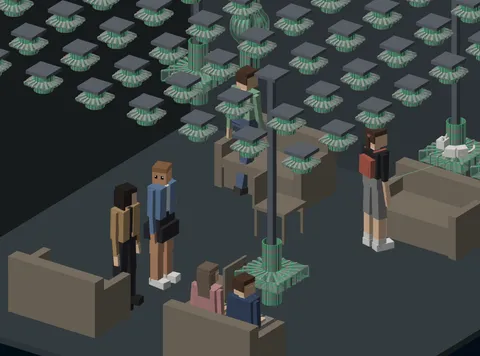
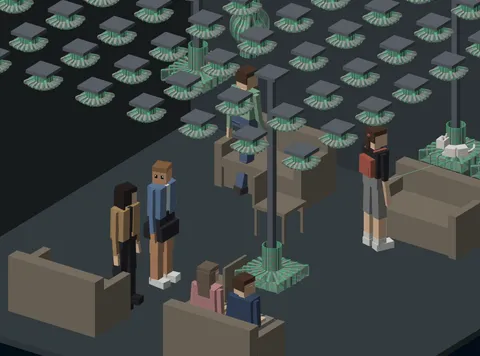
Lab 2-15 方台：结构贴底、带缩到 169 节，台面下那截布筒去掉
作者看单元成形后的样子：每次成形后台底下还支出一段贴着芯的圆柱形布，要尽量小。

- skin-square 加结构贴底的排法 squareWrapLow：键谱一颗不改，配平垫从结构上下各一半挪到结构上方，
  结构底下只接一段短尾（角档 5 节，面 / 边档按自由段差额多给一点，三档台面在收缩终点一样高）。
  原七段谱与 Lab 2-7 等全部现行调用逐位不变（buildSquareUnits 第三个参数省略 = 原样）。
- Lab 2-15 的 UNIT_TIERS 换用它，带子 202 → 169 节（最上面那段贴合只留到下限）。实测成形形状与
  锁定逐点相同；台底到钉住端 82 → 29 px（房间尺度 0.33 → 0.12 m），成形后整台短约三成。
  代价：只在收缩终点对齐，收缩途中三档台面差到十几 px，全部扣上后 ≤ 7 px。
- 三档结构中心序号不同了，带间的膜改按结构中心对位（membraneIndex），否则面档的台尖会接到角档台面下的布上。
- 茶几 0.49 m 当初是带子能落到的最低，现在不是了：注释与 /lab、案例页文案去掉这句，数值不动，待作者定。
- 案例页两组 2-15 分镜（room-cycle、two-uses）按新几何重截。

Claude-Session: https://claude.ai/code/session_01RPazAeFLw4UBaBZrTgFsBT

diff --git a/src/lib/space/cohabit-solid.ts b/src/lib/space/cohabit-solid.ts
@@ -45,7 +45,7 @@
  * 第二阶段「成什么」仍只有一种形（方形环平档那只方箱），待作者定词汇表后再分。
  */
 import type { RingUnitDef } from './skin-ring';
-import { SQUARE, buildSquareOrder, buildSquareUnits, squareHalfSide, SQUARE_REACH } from './skin-square';
+import { SQUARE, buildSquareOrder, buildSquareUnits, squareHalfSide, squareStructureAt, SQUARE_REACH } from './skin-square';
 import { SKIN, createSkinUnit, renderSmooth } from './skin-unit';
 import { SOLID, boxVerts, buildSolidTopology, fillSolidVerts, membranePanel, rotateVertsY, type SolidTopology } from './skin-solid';
 import { bakeIndexed } from '../linkage/gl3d';
@@ -96,11 +96,17 @@ export interface BandTrajectory {
   retractActive: number;
   /** 正向里形状还在变的最后一帧（成形在协议约六成处就到位，后面几十帧逐位相同；取帧只映射到会动的那段，免得先猛动再干等） */
   formActive: number;
+  /**
+   * 结构段（带键的那段）中心的节点序号与半长（节）。带间的膜按它对位（`membraneVerts`）：结构贴底的排法
+   * （2026-10-30）里三档的结构中心序号不同，按同一序号配对会把面档的台尖接到角档台面以下的布上。
+   */
+  mid: number;
+  midHalf: number;
 }
 
 /**
  * 轨迹烘焙：分片跑（`work` 按时间预算推进），好让台架在挂载后的头几帧里把它算完而不卡住主线程。
- * 一条 202 节的带全程 3000 步在桌面上约 1.5 s。
+ * 一条 202 节的带全程 3000 步在桌面上约 1.5 s（方台现用 169 节）。
  */
 export class TrajectoryBaker {
   readonly n: number;
@@ -116,9 +122,15 @@ export class TrajectoryBaker {
   private phase: 'form' | 'retract' | 'done' = 'form';
   private result: BandTrajectory | null = null;
 
+  private readonly mid: number;
+  private readonly midHalf: number;
+
   constructor(def: RingUnitDef, frames: FrameCounts = FRAMES) {
     this.unit = createSkinUnit(def.spec, def.opts);
     this.n = this.unit.n;
+    const st = squareStructureAt(def.spec);
+    this.mid = st ? st.start + (st.fs - 1) / 2 : (this.n - 1) / 2;
+    this.midHalf = st ? (st.fs - 1) / 2 : (this.n - 1) / 2;
     [this.smoothW, this.smoothP] = def.smooth;
     const spread = (k: number, total: number): number[] => Array.from({ length: k }, (_, i) => Math.round((i / (k - 1)) * total));
     this.formAt = spread(frames.form, SKIN.STEPS);
@@ -181,7 +193,7 @@ export class TrajectoryBaker {
     const n = this.n;
     const f0 = this.frames[0];
     // frames[1] = 收起态（初始摆位压向顶端）：烘完之前满场都是收着的单元，台架拿它烘整环
-    return { n, frames: [f0, hoistProfile(f0, n, HOIST.stowed)], footY: -f0[2 * n - 1] * SOLID.SCALE, platformTopY: -f0[2 * n - 1] * SOLID.SCALE, reach: SQUARE.RADIUS, retractActive: 0, formActive: 0 };
+    return { n, frames: [f0, hoistProfile(f0, n, HOIST.stowed)], footY: -f0[2 * n - 1] * SOLID.SCALE, platformTopY: -f0[2 * n - 1] * SOLID.SCALE, reach: SQUARE.RADIUS, retractActive: 0, formActive: 0, mid: this.mid, midHalf: this.midHalf };
   }
 
   /** 一口气烘完（守门与线稿用） */
@@ -241,17 +253,27 @@ export class TrajectoryBaker {
       reach: SQUARE.RADIUS + reach * SOLID.SCALE,
       retractActive: active,
       formActive,
+      mid: this.mid,
+      midHalf: this.midHalf,
     };
   }
 }
 
 /**
- * 方形单元那条带的节数：Lab 2-7 方形环立项时的 202 节（lead 22），与原来圆台的带一样长。方形环现行的 305 节是
- * 2026-09-02 为捏分编制加长的，多出来的全在上半截贴芯的素管里（形状逐点相同），立在方台上方会是一根一米来高的布筒。
+ * 方形单元那条带的节数。2026-10-25 起用 Lab 2-7 方形环立项时的 202 节（lead 22）：方形环现行的 305 节是 2026-09-02
+ * 为捏分编制加长的，多出来的全在上半截贴芯的素管里（形状逐点相同），立在方台上方会是一根一米来高的布筒。
+ * 2026-10-30 结构改贴底（见 UNIT_TIERS）后再缩到 169 节：最上面那段贴合只留到下限（面档 lead = SQUARE.LEAD_MIN = 8，
+ * 边 10、角 31），三档的垫与结构一节没动，成形的形状与锁定逐点相同（实测偏差 0）。成形后台面以上的带 97 → 83 px、
+ * 台面以下 118 → 65 px（台面到钉住端），整台短了约三成。
  */
-export const UNIT_BAND = 202;
-/** 方形单元的三档引擎定义（面 / 边 / 角，Lab 2-7 方形环平档的键谱）与二十条带的档位编制（下标 = 带序 j） */
-export const UNIT_TIERS: readonly RingUnitDef[] = buildSquareUnits(undefined, UNIT_BAND);
+export const UNIT_BAND = 169;
+/**
+ * 方形单元的三档引擎定义（面 / 边 / 角，Lab 2-7 方形环平档的键谱）与二十条带的档位编制（下标 = 带序 j）。
+ * 2026-10-30 改为结构贴底的排法（skin-square `squareWrapLow`，作者「每一次机构成型之后它的底面下面直接接这个单元的
+ * 最底端，而不是还要再支出来一段圆柱形的东西」）：键谱一颗没改，配平垫从结构上下各一半挪到结构上方，结构底下只接一段
+ * 短尾。成形的形状与锁定逐点相同；台底到钉住端 0.33 → 0.12 m（房间尺度）。
+ */
+export const UNIT_TIERS: readonly RingUnitDef[] = buildSquareUnits(undefined, UNIT_BAND, 'bottom');
 export const UNIT_ORDER: readonly number[] = buildSquareOrder();
 
 /** 已经烘好的三档轨迹（同一页面里换路由、重挂台架时直接拿，不重烘） */
@@ -259,7 +281,7 @@ const BAKED = new Map<string, BandTrajectory[]>();
 
 /**
  * 三档轨迹一起烘：三条引擎依次推进（分片，`work` 按时间预算），全部烘完才算完。三档的节点数相同（同一条
- * 202 节的带），钉住端高度相同（注册在底端）、平台面高度相同（方形环的对位构造），台架拿第 0 档定摆放。
+ * 169 节的带），钉住端高度相同（注册在底端）、平台面高度相同（方形环的对位构造），台架拿第 0 档定摆放。
  */
 export class UnitBaker {
   readonly n: number;
@@ -532,7 +554,8 @@ export interface Rig {
  * - stand 1.05：站着用——站姿肘高附近（BIFMA G1 站立桌可调到 1.18；吧台桌通行 1.0–1.1）。不当桌子的单元都落到这里；
  * - chair 0.74：配餐椅（座面 0.45）——桌面比座面高 0.27–0.30 是通行的桌椅高差；台面 0.15 厚、台底 0.59，腿进不去，
  *   所以餐椅那台的台边按 COHABIT.TABLE 落在膝盖前面；
- * - sofaFront 0.49：沙发正前方当茶几——资料要与座面齐或略低（0.40–0.45），但台面到吊带最下端有 0.48 m，再低吊带就戳到地上，0.49 是下限。
+ * - sofaFront 0.49：沙发正前方当茶几——资料要与座面齐或略低（0.40–0.45）。定这个数时台面到吊带最下端有 0.48 m、0.49 是下限；
+ *   2026-10-30 结构改贴底（UNIT_TIERS）后只剩约 0.27 m，已能落进资料范围，改不改待作者定。
  * 哪一台当谁的桌子、什么时候落由平面模型定（COHABIT.TABLE、CohabitSim.tableBy），这里只管高度。
  * 原来铺满时钉在 1.43 m（场地布局那个高度，接近站姿肩高），哪种桌子都不是。
  */
@@ -642,22 +665,48 @@ export function decimateTrajectory(traj: BandTrajectory, stride: number): BandTr
     });
     return out;
   });
-  return { ...traj, n: m, frames };
+  return { ...traj, n: m, frames, mid: traj.mid / stride, midHalf: traj.midHalf / stride };
 }
 
 /** 收起态整台网格的抽稀步长 */
 export const STOWED_STRIDE = 8;
 
 /**
+ * 膜的 B 边在 A 边第 i 个节点对面取哪个（小数）序号：两档结构中心对齐，中心两侧各 w 节（两档结构半长取小）
+ * 逐节对位（与七段谱时代按同一序号配对的读法相同：台面对台面），其余分段线性摊到带顶 / 带底。中心相同时恒等。
+ */
+export function membraneIndex(i: number, n: number, ma: number, mb: number, w: number): number {
+  if (ma === mb) return i;
+  const lo = ma - w;
+  const hi = ma + w;
+  if (i <= lo) return lo <= 0 ? mb - w : (i / lo) * (mb - w);
+  if (i >= hi) return hi >= n - 1 ? mb + w : mb + w + ((i - hi) / (n - 1 - hi)) * (n - 1 - mb - w);
+  return i - ma + mb;
+}
+
+/**
  * 带与带之间的膜（2026-10-25 随方形单元补上：没有它，方台俯视是一把放射状的窄带，读不出是一张方的台面；
  * 作者 10-23 讲收起态时也说的是「蒙皮、可折叠的布」）。几何 = Lab 2-5 / 2-7 那块织物膜（skin-solid `membranePanel`）：
  * A 边取带 j 的后剖口（它那一档、它那一帧），B 边取带 j+1 的前剖口；烘在方位角 0，摆放时转到 bandAngle(j)。
+ * 两档结构中心序号不同时（结构贴底的排法），B 边按 `membraneIndex` 在节点之间插值取点。
  * 半透明，台架在实体之后画（gl3d 半透明的三条硬约束）。
  */
 export function membraneVerts(a: BandTrajectory, fa: number, b: BandTrajectory, fb: number, count: number = SQUARE.COUNT): { verts: Float32Array; idx: Uint16Array } {
   const n = a.n;
   const A = a.frames[fa];
-  const B = b.frames[fb];
+  let B = b.frames[fb];
+  if (a.mid !== b.mid) {
+    const w = Math.min(a.midHalf, b.midHalf);
+    const R = new Float64Array(2 * n);
+    for (let i = 0; i < n; i++) {
+      const t = Math.max(0, Math.min(n - 1, membraneIndex(i, n, a.mid, b.mid, w)));
+      const k = Math.min(n - 2, Math.floor(t));
+      const u = t - k;
+      R[i] = B[k] + (B[k + 1] - B[k]) * u;
+      R[n + i] = B[n + k] + (B[n + k + 1] - B[n + k]) * u;
+    }
+    B = R;
+  }
   return membranePanel(
     { px: A.subarray(0, n), py: A.subarray(n, 2 * n), offY: 0 },
     { px: B.subarray(0, n), py: B.subarray(n, 2 * n), offY: 0 },

diff --git a/app/(site)/lab/page.tsx b/app/(site)/lab/page.tsx
@@ -417,7 +417,7 @@ export default function LabPage() {
           specs={[
             ['Room', 'Lab 2-8 room · walk / stand / sit rule: the same room as Lab 2-15, 8×8 square units filling the room at 0.83 m pitch (square platform 0.69 m) · trace rule: 4×4 real round units, 6×6 / 8×8 scaled · the case study buttons keep the round units at 0.60 m pitch in the middle of the room that the case study chart was run with'],
             ['Seats', 'Furniture is its own layer: standard layout four two-seat sofas along the top and bottom walls and two dining chairs in the middle, 10 seats, sizes as in Lab 2-15; add, remove and drag pieces · units still hang over the furniture, only those over a seated head stay up · the unit a cat is led to is 1.0–1.5 m from the seat; in the standard layout it is never the one that comes down as the table'],
-            ['Tables', 'When someone sits down, one unit in front of the seat comes down as their table; it goes back up when the last person on that piece of furniture stands. Which unit is set by geometry: in front of the seat and covering its centre line, over no seated head, clear of the furniture. Sofa: near edge 0.30–0.46 m from the sofa front (the usual coffee-table gap), one unit shared by both seats, top at 0.49 m (the lowest it can go, since the band hangs 0.48 m below the top). Dining chair: the top is 0.15 m thick and its underside only 0.14 m above the seat, so legs cannot go under; the edge sits just past the knees and within reach of the arm (0.615–0.712 m from the backrest), top at 0.74 m. It moves at the moment of sitting down or standing up, not later (Lee et al. 2019: an automatic desk that moved during the change of task disturbed people least), at 80 mm/s like a fast electric desk. Units nobody sits at stay at 1.05 m, near standing elbow height'],
+            ['Tables', 'When someone sits down, one unit in front of the seat comes down as their table; it goes back up when the last person on that piece of furniture stands. Which unit is set by geometry: in front of the seat and covering its centre line, over no seated head, clear of the furniture. Sofa: near edge 0.30–0.46 m from the sofa front (the usual coffee-table gap), one unit shared by both seats, top at 0.49 m. Dining chair: the top is 0.15 m thick and its underside only 0.14 m above the seat, so legs cannot go under; the edge sits just past the knees and within reach of the arm (0.615–0.712 m from the backrest), top at 0.74 m. It moves at the moment of sitting down or standing up, not later (Lee et al. 2019: an automatic desk that moved during the change of task disturbed people least), at 80 mm/s like a fast electric desk. Units nobody sits at stay at 1.05 m, near standing elbow height'],
             ['Postures', 'Walk: no trigger, no trace · stand 3 s watching a cat (≤ 3 m, ±25°): one step for that cat, once per stop · sit: a route from the nearest free cat to the unit in front of the seat, one step formed at a time · the cat takes an offered step half the time'],
             ['Visitors', 'Walk / stand / sit rule: bodies 0.44 m wide, one person per aisle crossing; in an aisle one waits and, after 1.5 s, goes another way; with the units filling the room, a crossing whose four neighbouring units are all stowed is open floor, so a walker passes someone standing there instead of waiting (never stopping on them, and the two step aside on screen) · about 70% come in parties, mostly pairs (Moussaïd et al. 2010), standing within 0.92 m of whoever leads and sitting together · spots and seats chosen at least 1.35 m from strangers if possible, otherwise at least 1 m, and kept once chosen · up to 12 people'],
             ['Pace', 'Visitors stand still 3–12 s, go to sit at about one stop in three and sit 60–180 s; watching a cat still takes 10–30 s. Demonstration values: no study gives how often café visitors move or how long they sit. The case study comparison and the case buttons keep 8–45 s, one stop in two and 90–240 s'],
@@ -442,12 +442,12 @@ export default function LabPage() {
           lede="The Lab 2-14 simulation drawn in the Lab 2-8 room: sixty-four square units, filling the whole room, are stowed under the ceiling, six visitors walk, stand and sit, two cats live on the platforms. A unit the rules call for first comes down to working height and then forms, bands in a person's way retract on their own, and the four encounter events are counted at the bottom right. Each unit is the Lab 2-7 square ring at its flat setting, scaled to the 8×8 pitch; the platforms double as tables. The round rings stay in the earlier labs, where they show how the form is made."
           specs={[
             ['Room', 'Lab 2-8 room (6.64 m square, 3.74 m high) · 8×8 units filling the room at 0.83 m pitch · square platform 0.69 m · stowed under the ceiling plate until triggered'],
-            ['Tables', 'When someone sits down, one unit in front of the seat comes down as their table; it goes back up when the last person on that piece of furniture stands. Which unit is set by geometry: in front of the seat and covering its centre line, over no seated head, clear of the furniture. Sofa: near edge 0.30–0.46 m from the sofa front (the usual coffee-table gap), one unit shared by both seats, top at 0.49 m (the lowest it can go, since the band hangs 0.48 m below the top). Dining chair: the top is 0.15 m thick and its underside only 0.14 m above the seat, so legs cannot go under; the edge sits just past the knees and within reach of the arm (0.615–0.712 m from the backrest), top at 0.74 m. It moves at the moment of sitting down or standing up, not later (Lee et al. 2019: an automatic desk that moved during the change of task disturbed people least), at 80 mm/s like a fast electric desk. Units nobody sits at stay at 1.05 m, near standing elbow height'],
+            ['Tables', 'When someone sits down, one unit in front of the seat comes down as their table; it goes back up when the last person on that piece of furniture stands. Which unit is set by geometry: in front of the seat and covering its centre line, over no seated head, clear of the furniture. Sofa: near edge 0.30–0.46 m from the sofa front (the usual coffee-table gap), one unit shared by both seats, top at 0.49 m. Dining chair: the top is 0.15 m thick and its underside only 0.14 m above the seat, so legs cannot go under; the edge sits just past the knees and within reach of the arm (0.615–0.712 m from the backrest), top at 0.74 m. It moves at the moment of sitting down or standing up, not later (Lee et al. 2019: an automatic desk that moved during the change of task disturbed people least), at 80 mm/s like a fast electric desk. Units nobody sits at stay at 1.05 m, near standing elbow height'],
             ['Furniture', 'Sizes from ergonomic references: two-seat sofa 1.40 × 0.80 m, seat 0.43 m high and 0.60 m deep, arms 0.12 m wide and 0.62 m high, back 0.80 m; dining chair 0.50 × 0.52 m, seat 0.45 m high and 0.42 m deep, back 0.85 m; the two dining chairs sit sideways in the middle of the room, each facing a unit square on'],
             ['Pace', 'Visitors stand still 3–12 s, go to sit at about one stop in three and sit 60–180 s; watching a cat still takes 10–30 s. Demonstration values: no study gives how often café visitors move or how long they sit. The case study comparison and the case buttons keep 8–45 s, one stop in two and 90–240 s'],
             ['Time', '×1 / ×8 / ×10 / ×20 playback; the simulation is stepped in 0.05 s pieces, so faster playback runs the same rules'],
             ['Driver', 'CohabitSim with the case study configuration and square units (the case study chart was run with round units): walk / stand / sit rule · only the bands in the way retract · visitors with bodies and parties · cats can use the floor · cat costs calibrated to Mertens & Turner 1988 · lead to the unit in front of the seat'],
-            ['Band shapes', 'Three engine runs (face, edge and corner depth), each baked to 32 forming and 24 retraction keyframes; each band picks its frame from its unit’s degree and how far it has retracted. Switching from forming to retraction frames can show a small jump. A semi-transparent membrane spans each pair of neighbouring bands'],
+            ['Band shapes', 'Three engine runs (face, edge and corner depth), each baked to 32 forming and 24 retraction keyframes; each band picks its frame from its unit’s degree and how far it has retracted. Switching from forming to retraction frames can show a small jump. A semi-transparent membrane spans each pair of neighbouring bands. The padding of each band sits above the box, so below the formed platform only about 0.12 m of band runs down to the bottom end (0.33 m before 2026-10-30), and the band is shortened to 169 nodes (from 202), so the whole unit is about 30% shorter when formed; the box itself is unchanged'],
             ['Scale', 'The Lab 2-7 square ring at its flat setting, scaled by the pitch ratio (0.67) and then by 1.54, so the plan’s platform circle is the square’s incircle. A unit of this size has not been built or solved'],
             ['Figures', 'Blocky 1.70 m people (joint proportions from Drillis & Contini) who walk, stand, sit and turn their heads, dressed in twelve outfits (long or short sleeves, jacket, hoodie, trousers, shorts, skirt, four hairstyles, caps, beanies, glasses, backpacks); blocky cats in five poses and seven coats (cow, tabby, white, black, calico, tuxedo, ginger) that wrap around the post inside the square; outfits and coats are dealt at random each run, no two alike'],
             ['Spaces', 'Live · fixed (even rows formed, leaving out any square whose corners would cut a crossing off from the doors) · empty room, same seats and bodies'],

diff --git a/src/lib/site/lab-page-copy.ts b/src/lib/site/lab-page-copy.ts
@@ -283,12 +283,12 @@ export const LAB_PAGE_COPY: readonly (readonly [string, string])[] = [
   ["Time", "时间"],
   ["×1 / ×8 / ×10 / ×20 playback; the simulation is stepped in 0.05 s pieces, so faster playback runs the same rules", "×1 / ×8 / ×10 / ×20 倍速播放；仿真按 0.05 秒一段推进，快放跑的是同一套规则"],
   ["Tables", "桌子"],
-  ["When someone sits down, one unit in front of the seat comes down as their table; it goes back up when the last person on that piece of furniture stands. Which unit is set by geometry: in front of the seat and covering its centre line, over no seated head, clear of the furniture. Sofa: near edge 0.30–0.46 m from the sofa front (the usual coffee-table gap), one unit shared by both seats, top at 0.49 m (the lowest it can go, since the band hangs 0.48 m below the top). Dining chair: the top is 0.15 m thick and its underside only 0.14 m above the seat, so legs cannot go under; the edge sits just past the knees and within reach of the arm (0.615–0.712 m from the backrest), top at 0.74 m. It moves at the moment of sitting down or standing up, not later (Lee et al. 2019: an automatic desk that moved during the change of task disturbed people least), at 80 mm/s like a fast electric desk. Units nobody sits at stay at 1.05 m, near standing elbow height", "人坐下，座位面前的一台落下来当他的桌子；这件家具上最后一个人起身，它就收回去。哪一台按几何定：在人面前、台面盖住座位中线，不盖任何人的头顶，不压家具。沙发：台面近边离沙发前缘 0.30–0.46 m（茶几的通行距离），两个座位共用一台，台面落到 0.49 m（能落到的最低：台面下还吊着 0.48 m 的带子）。餐椅：台面 0.15 m 厚，台底只比座面高 0.14 m，腿伸不进去，所以台边落在膝盖前、伸手够得着的地方（离靠背 0.615–0.712 m），台面落到 0.74 m。坐下、起身那一刻就动，不往后拖（Lee 等 2019：自动升降桌在人换事的那个间隙里动，最不打扰人），速度 80 mm/s，与快档电动升降桌相同。没人坐着用的单元停在 1.05 m，站姿肘高附近"],
+  ["When someone sits down, one unit in front of the seat comes down as their table; it goes back up when the last person on that piece of furniture stands. Which unit is set by geometry: in front of the seat and covering its centre line, over no seated head, clear of the furniture. Sofa: near edge 0.30–0.46 m from the sofa front (the usual coffee-table gap), one unit shared by both seats, top at 0.49 m. Dining chair: the top is 0.15 m thick and its underside only 0.14 m above the seat, so legs cannot go under; the edge sits just past the knees and within reach of the arm (0.615–0.712 m from the backrest), top at 0.74 m. It moves at the moment of sitting down or standing up, not later (Lee et al. 2019: an automatic desk that moved during the change of task disturbed people least), at 80 mm/s like a fast electric desk. Units nobody sits at stay at 1.05 m, near standing elbow height", "人坐下，座位面前的一台落下来当他的桌子；这件家具上最后一个人起身，它就收回去。哪一台按几何定：在人面前、台面盖住座位中线，不盖任何人的头顶，不压家具。沙发：台面近边离沙发前缘 0.30–0.46 m（茶几的通行距离），两个座位共用一台，台面落到 0.49 m。餐椅：台面 0.15 m 厚，台底只比座面高 0.14 m，腿伸不进去，所以台边落在膝盖前、伸手够得着的地方（离靠背 0.615–0.712 m），台面落到 0.74 m。坐下、起身那一刻就动，不往后拖（Lee 等 2019：自动升降桌在人换事的那个间隙里动，最不打扰人），速度 80 mm/s，与快档电动升降桌相同。没人坐着用的单元停在 1.05 m，站姿肘高附近"],
   ["Furniture", "家具"],
   ["Sizes from ergonomic references: two-seat sofa 1.40 × 0.80 m, seat 0.43 m high and 0.60 m deep, arms 0.12 m wide and 0.62 m high, back 0.80 m; dining chair 0.50 × 0.52 m, seat 0.45 m high and 0.42 m deep, back 0.85 m; the two dining chairs sit sideways in the middle of the room, each facing a unit square on", "尺寸按人体工学资料：双人沙发 1.40 × 0.80 m，座面高 0.43 m、座深 0.60 m，扶手宽 0.12 m、高 0.62 m，靠背高 0.80 m；餐椅 0.50 × 0.52 m，座面高 0.45 m、座深 0.42 m，靠背高 0.85 m；两把餐椅侧过来摆在房间中间，各自正对一台"],
   ["Lab 2-8 room (6.64 m square, 3.74 m high) · 8×8 units filling the room at 0.83 m pitch · square platform 0.69 m · stowed under the ceiling plate until triggered", "实验 2-8 那间房（6.64 m 见方，高 3.74 m）· 8×8 个单元铺满整间房，格距 0.83 m · 方台边长 0.69 m · 没触发时收在天花方板下"],
   ["CohabitSim with the case study configuration and square units (the case study chart was run with round units): walk / stand / sit rule · only the bands in the way retract · visitors with bodies and parties · cats can use the floor · cat costs calibrated to Mertens & Turner 1988 · lead to the unit in front of the seat", "人猫仿真，配置与案例页对照图相同，单元换成方形（对照图是按圆台跑的）：「走 · 站 · 坐」规则 · 只收挡路的带 · 访客有身体、结伴 · 猫能下地 · 猫的停留代价按 Mertens & Turner 1988 标定 · 引到座位前方那台"],
-  ["Three engine runs (face, edge and corner depth), each baked to 32 forming and 24 retraction keyframes; each band picks its frame from its unit’s degree and how far it has retracted. Switching from forming to retraction frames can show a small jump. A semi-transparent membrane spans each pair of neighbouring bands", "面、边、角三档各跑一遍引擎，烘成 32 帧成形加 24 帧回程的关键帧。每条带按所在单元的成形程度和自己收回了几成取帧，从成形帧切到回程帧时会有一点小跳。相邻两条带之间有一层半透明的织物膜"],
+  ["Three engine runs (face, edge and corner depth), each baked to 32 forming and 24 retraction keyframes; each band picks its frame from its unit’s degree and how far it has retracted. Switching from forming to retraction frames can show a small jump. A semi-transparent membrane spans each pair of neighbouring bands. The padding of each band sits above the box, so below the formed platform only about 0.12 m of band runs down to the bottom end (0.33 m before 2026-10-30), and the band is shortened to 169 nodes (from 202), so the whole unit is about 30% shorter when formed; the box itself is unchanged", "面、边、角三档各跑一遍引擎，烘成 32 帧成形加 24 帧回程的关键帧。每条带按所在单元的成形程度和自己收回了几成取帧，从成形帧切到回程帧时会有一点小跳。相邻两条带之间有一层半透明的织物膜。每条带的配平垫放在台子上方，成形后台面以下只剩约 0.12 m 的带子垂到底端（2026-10-30 之前是 0.33 m），带子也从 202 节缩到 169 节，成形后整台短了约三成，台子本身没变"],
   ["The Lab 2-7 square ring at its flat setting, scaled by the pitch ratio (0.67) and then by 1.54, so the plan’s platform circle is the square’s incircle. A unit of this size has not been built or solved", "实验 2-7 方形环的平档，按格距比例（0.67）缩放，再放大 1.54 倍，让平面模型里的平台圆成为方形的内切圆。这个尺寸的单元没有做过，也没有解过"],
   ["Blocky 1.70 m people (joint proportions from Drillis & Contini) who walk, stand, sit and turn their heads, dressed in twelve outfits (long or short sleeves, jacket, hoodie, trousers, shorts, skirt, four hairstyles, caps, beanies, glasses, backpacks); blocky cats in five poses and seven coats (cow, tabby, white, black, calico, tuxedo, ginger) that wrap around the post inside the square; outfits and coats are dealt at random each run, no two alike", "方块风：1.70 m 的人（关节比例取 Drillis & Contini），会走、站、坐、转头，十二套穿着（长袖、短袖、外套、卫衣、长裤、短裤、裙子、四种发型、棒球帽、毛线帽、眼镜、双肩包）；猫五种姿态、七种花色（奶牛、狸花、白猫、黑猫、三花、燕尾服、橘猫），在方台上绕着立杆待；每一场随机发，人不撞衫、猫不重样"],
   ["Live · fixed (even rows formed, leaving out any square whose corners would cut a crossing off from the doors) · empty room, same seats and bodies", "会动 · 钉死（偶数行落着，方台的角会把哪个交叉点和门隔开就不落那台）· 空房间，座位与人猫相同"],

diff --git a/src/lib/space/cohabit-solid.test.ts b/src/lib/space/cohabit-solid.test.ts
@@ -1,10 +1,10 @@
 import { describe, expect, it } from 'vitest';
-import { BRIDGE_BASE, FRAMES, FURN_ERGO, HOIST, STEADY, TABLE_TOP, rigYForTop, tableTopFor, bandCursors, bandPaths, membraneJoins, resetBandCursors, stepBandCursor, TrajectoryBaker, UNITS_PER_M, UNIT_BAND, UNIT_ORDER, UNIT_TIERS, UnitBaker, bakeBand, bakeMembrane, bakeUnit, bakeUnitSkin, bandFrame, bandTopology, catPlacement, figureYaw, furnitureBoxes, hoistProfile, platesMesh, platformBand, platformSide, postsMesh, rigFor, roomMesh, seatSpecOf, unitDrop, unitFootY, unitTopY } from './cohabit-solid';
+import { BRIDGE_BASE, FRAMES, FURN_ERGO, HOIST, STEADY, TABLE_TOP, rigYForTop, tableTopFor, bandCursors, bandPaths, membraneIndex, membraneJoins, resetBandCursors, stepBandCursor, TrajectoryBaker, UNITS_PER_M, UNIT_BAND, UNIT_ORDER, UNIT_TIERS, UnitBaker, bakeBand, bakeMembrane, bakeUnit, bakeUnitSkin, bandFrame, bandTopology, catPlacement, figureYaw, furnitureBoxes, hoistProfile, platesMesh, platformBand, platformSide, postsMesh, rigFor, roomMesh, seatSpecOf, unitDrop, unitFootY, unitTopY } from './cohabit-solid';
 import { planLayout } from './unit-activation';
 import { FIGURE, RIG_ANCHOR_Y, ROOM, ringOuter } from './skin-grid';
 import { RING } from './skin-ring';
 import { SOLID } from './skin-solid';
-import { SQUARE, SQUARE_PEAK, SQUARE_REACH, buildSquareUnits, squareHalfSide, squareRadiusAt } from './skin-square';
+import { SQUARE, SQUARE_PEAK, SQUARE_REACH, buildSquareUnits, squareHalfSide, squareRadiusAt, squareStructureAt } from './skin-square';
 import { CAT_COATS, catMesh, figureMesh, styleKey as styleKeyOf, type HumanStyle } from './figure';
 import { OUTFITS } from '../../../components/lab/figurePalette';
 import { partBox } from './mesh-shell';
@@ -47,24 +47,64 @@ describe('带子轨迹关键帧', () => {
     for (let j = 0; j < UNIT_ORDER.length; j++) if (UNIT_ORDER[j] === 2) expect(Math.abs(Math.sin(2 * bandAngle(j)))).toBeCloseTo(1, 9);
   });
 
-  it('用的是方形环立项时那条 202 节的带：形状与现行 305 节那条逐点相同（尾端对齐），只少上半截贴芯的素管', () => {
+  it('结构贴底、带缩到 169 节（2026-10-30）：成形的形状与 Lab 2-7 那条（305 节、七段谱）逐点相同，台底下那截布短一大截', () => {
     expect(traj.n).toBe(UNIT_BAND);
+    // 最上面那段贴合只留到下限：最短的那档（面档）lead = LEAD_MIN
+    expect(Math.min(...UNIT_TIERS.map((d) => d.spec[0][1]))).toBe(SQUARE.LEAD_MIN);
     const long = new TrajectoryBaker(buildSquareUnits()[0]).runAll();
     expect(long.n).toBe(SQUARE.BAND);
     const a = traj.frames[STEADY.formed];
     const b = long.frames[STEADY.formed];
     const na = traj.n;
     const nb = long.n;
+    const sa = squareStructureAt(UNIT_TIERS[0].spec)!;
+    const sb = squareStructureAt(buildSquareUnits()[0].spec)!;
+    expect(sa.fs).toBe(sb.fs);
+    const c = (sa.fs - 1) / 2;
     let dx = 0;
     let dy = 0;
-    for (let i = 0; i < na; i++) {
-      dx = Math.max(dx, Math.abs(a[na - 1 - i] - b[nb - 1 - i]));
-      dy = Math.max(dy, Math.abs(a[2 * na - 1 - i] - a[2 * na - 1] - (b[2 * nb - 1 - i] - b[2 * nb - 1])));
+    for (let i = 0; i < sa.fs; i++) {
+      dx = Math.max(dx, Math.abs(a[sa.start + i] - b[sb.start + i]));
+      dy = Math.max(dy, Math.abs(a[na + sa.start + i] - a[na + sa.start + c] - (b[nb + sb.start + i] - b[nb + sb.start + c])));
     }
-    expect(dx * 100).toBeLessThan(0.01); // px
-    expect(dy * 100).toBeLessThan(1);
-    expect(Math.abs(long.reach - traj.reach)).toBeLessThan(0.01);
+    expect(dx * 100).toBeLessThan(0.3); // px：结构段一节没动，形状与锁定照旧
+    expect(dy * 100).toBeLessThan(0.3);
+    expect(Math.abs(long.reach - traj.reach)).toBeLessThan(0.05);
+    // 台底离钉住端（px）：七段谱 ≈ 82（隔离贴合 16 + 垫 + 尾 15 都挂在结构底下），结构贴底 ≈ 29（只剩结构自己的下侧缓冲 + 短尾）
+    const bottomAbove = (f: Float64Array, n: number, reach: number): number => {
+      let bot = Infinity;
+      for (let i = 0; i < n; i++) if (f[i] > reach * 0.5) bot = Math.min(bot, f[n + i]);
+      return (bot - f[2 * n - 1]) * 100;
+    };
+    const reachA = Math.max(...a.subarray(0, na));
+    const reachB = Math.max(...b.subarray(0, nb));
+    expect(bottomAbove(b, nb, reachB)).toBeGreaterThan(75);
+    expect(bottomAbove(a, na, reachA)).toBeLessThan(32);
+    // 三档台面在收缩终点一样高，台底离钉住端都在 32 px 以内
+    for (const tr of trajs) {
+      const f = tr.frames[STEADY.formed];
+      expect(bottomAbove(f, tr.n, Math.max(...f.subarray(0, tr.n)))).toBeLessThan(32);
+    }
   }, 30_000);
+
+  it('膜按结构中心对位：三档结构中心序号不同（结构贴底），台面附近膜的两边一样高；中心相同时就是按序号配对', () => {
+    expect(new Set(trajs.map((t) => t.mid)).size).toBe(3);
+    const n = traj.n;
+    for (let i = 0; i < n; i += 7) expect(membraneIndex(i, n, 100, 100, 40)).toBe(i);
+    for (const [ta, tb] of [[0, 2], [2, 0], [0, 1], [1, 2]] as const) {
+      const A = trajs[ta], B = trajs[tb];
+      const w = Math.min(A.midHalf, B.midHalf);
+      // 端点钉住、单调
+      expect(membraneIndex(0, n, A.mid, B.mid, w)).toBeCloseTo(0, 9);
+      expect(membraneIndex(n - 1, n, A.mid, B.mid, w)).toBeCloseTo(n - 1, 9);
+      for (let i = 1; i < n; i++) expect(membraneIndex(i, n, A.mid, B.mid, w)).toBeGreaterThan(membraneIndex(i - 1, n, A.mid, B.mid, w));
+      // 成形后：两档结构中心两侧 30 节内（台面那一段）膜两边的高度差 < 2 px；按同一序号配对会差到半个箱高
+      const fa = A.frames[STEADY.formed], fb = B.frames[STEADY.formed];
+      let d = 0;
+      for (let k = -30; k <= 30; k++) d = Math.max(d, Math.abs(fa[n + A.mid + k] - fb[n + B.mid + k]) * 100);
+      expect(d).toBeLessThan(2);
+    }
+  });
 
   it('俯视是方的：二十个平台外缘点都落在同一个正方形的边上（偏差 < 1 px）', () => {
     const a = squareHalfSide(SQUARE_REACH);
@@ -479,7 +519,7 @@ describe('单元铺满整间房（cover: room，2026-10-27 作者「单元兼作
       const y = rigYForTop(rig, traj, top);
       expect(unitFootY(rig, traj.footY, 1, y)).toBeLessThan(ROOM.FLOOR_Y);
     }
-    expect(TABLE_TOP.sofaFront - hang).toBeLessThan(0.02); // 已经是能落到的最低
+    expect(hang).toBeLessThan(0.3); // 2026-10-30 结构贴底后台面到吊带最下端约 0.27 m（七段谱时 0.48 m，茶几 0.49 是那时的下限）
     expect(TABLE_TOP.chair - FURN_ERGO.chair.seatH).toBeGreaterThanOrEqual(0.27);
     expect(TABLE_TOP.chair - FURN_ERGO.chair.seatH).toBeLessThanOrEqual(0.3);
   });

diff --git a/src/lib/space/skin-square.ts b/src/lib/space/skin-square.ts
@@ -274,13 +274,17 @@ export function squareSpec(
   h: number = SQUARE.H,
   band: number = SQUARE.BAND,
 ): SkinSpec {
+  return squareWrap(squareSeg(kMax, h), fTotal, leadAt, `k=${kMax}`, band).spec;
+}
+
+/** 一档的结构段（带梯挡的那段自由段：两端缓冲 + 方箱梯挡 + 端面板）——七段谱与结构贴底的排法共用 */
+export function squareSeg(kMax: number, h: number = SQUARE.H): SkinSeg {
   const b = squareBuffer(kMax, h);
   const fs = squareFree(kMax, b);
   const c = (fs - 1) / 2;
   const pw = squarePw(h);
   const bonds: SkinBond[] = squareLadder(kMax, pw).map((k) => [c - k, c + k, h / 100]);
-  const seg: SkinSeg = ['f', fs, bonds, [[c - pw, c + pw]]];
-  return squareWrap(seg, fTotal, leadAt, `k=${kMax}`, band).spec;
+  return ['f', fs, bonds, [[c - pw, c + pw]]];
 }
 
 /**
@@ -312,18 +316,70 @@ export function squareWrap(
 }
 
 /**
+ * 结构贴底的排法（2026-10-30，人猫同台的立体台 Lab 2-15；作者看单元成形后的样子：「每一次机构成型之后它的底面
+ * 下面直接接这个单元的最底端，而不是还要再支出来一段圆柱形的东西」）。
+ *
+ * 七段谱把配平垫上下各放一半，嘴心与档位全程无关，代价是结构底下挂着「隔离贴合 16 + 垫 + 尾 15」：成形后台底离
+ * 钉住端约 82 px（房间尺度约 0.33 m），就是台子下面那截贴着芯的布筒。这里把垫整个挪到结构上方：
+ *   面 / 边档 `[贴合 lead | 垫 (fTotal − fs) | 隔离 ISO | 结构 | 尾 T]`，角档（没有垫）`[贴合 lead | 结构 | 尾 T]`。
+ * 结构底下只剩它自己的下侧缓冲和一段短尾。角档尾取 TAIL_MIN；面 / 边档比角档短的那截自由段收缩到终点时
+ * 短 `(fTotal − fs)·R1` 节长，它们的尾多给这一半（取整），三档台面在收缩终点一样高（实测差 < 1 px）。
+ *
+ * - 结构段一节没动，结构上方仍隔着 ISO ⇒ 成形的形状、锁定集合与七段谱逐点相同（实测 ≤ 0.14 px）；
+ * - 贴合总量与自由总量与七段谱相同 ⇒ 带长、带顶的走法不变，只是台子在带上的位置往下挪了；
+ * - 台底离钉住端 82 → 29 px（实测，三档差 < 1 px）；结构底下贴着芯的结构下侧缓冲，角档最长，是剩下的大头；
+ * - 代价：只在收缩终点对齐。收缩途中角档的自由段长、结构偏高，三档台面中线差到十几 px（第 300 步 21 px），
+ *   全部扣上（约第 675 步）后 ≤ 7 px，第 900 步起 < 1 px；
+ * - 结构的中心序号随档位变（202 节带上：面 105+42、边 95+48、角 64+66）⇒ 按节点序号配对的东西（带与带之间的膜）
+ *   要按结构中心对位，见 cohabit-solid 的 `membraneVerts`。
+ */
+export function squareWrapLow(
+  seg: SkinSeg,
+  fTotal: number = squareFreeTotal(),
+  who = '',
+  band: number = SQUARE.BAND,
+): { spec: SkinSpec; base: number } {
+  const fs = seg[1];
+  const pad = fTotal - fs;
+  const tail = SQUARE.TAIL_MIN + Math.round((pad * SKIN.R1) / 2);
+  const lead = band - fTotal - tail - (pad > 0 ? SQUARE.ISO : 0);
+  if (pad < 0 || lead < SQUARE.LEAD_MIN) throw new Error(`方形环档位越界（结构贴底）：${who} 垫=${pad} lead=${lead} tail=${tail}`);
+  return pad > 0
+    ? { spec: [['g', lead], ['f', pad, []], ['g', SQUARE.ISO], seg, ['g', tail]], base: lead + pad + SQUARE.ISO }
+    : { spec: [['g', lead], seg, ['g', tail]], base: lead };
+}
+
+/** 谱里结构段（带键的那段自由段）的起点与节数；没有键的谱返回 null */
+export function squareStructureAt(spec: SkinSpec): { start: number; fs: number } | null {
+  let at = 0;
+  for (const s of spec) {
+    if (s[0] === 'f' && s[2].length > 0) return { start: at, fs: s[1] };
+    at += s[1];
+  }
+  return null;
+}
+
+/**
  * 三档的引擎定义（同一张方箱的整形选项，只换键谱）。`band` 省略 = 这一族现行的带长（逐位不变）；
  * 人猫同台的立体台（Lab 2-15）传 202：这一族立项时那条带（lead 22），形状与长带逐点相同（尾端对齐），
  * 只少上半截贴芯的素管——那一截是 2026-09-02 为捏分编制加长的。
+ * `place` 省略 = 七段谱（Lab 2-7 等全部现行调用逐位不变）；`'bottom'` = 结构贴底（`squareWrapLow`，只给 Lab 2-15）。
  */
-export function buildSquareUnits(tiers: readonly SquareTier[] = SQUARE_TIERS, band: number = SQUARE.BAND): RingUnitDef[] {
+export function buildSquareUnits(
+  tiers: readonly SquareTier[] = SQUARE_TIERS,
+  band: number = SQUARE.BAND,
+  place: 'center' | 'bottom' = 'center',
+): RingUnitDef[] {
   const fTotal = squareFreeTotal();
   const opts: SkinUnitOpts = skinSiteOpts(STEPPED);
   return tiers.map((t) => ({
-    key: band === SQUARE.BAND ? `sq-${t.en}` : `sq-${t.en}-b${band}`,
+    key: (band === SQUARE.BAND ? `sq-${t.en}` : `sq-${t.en}-b${band}`) + (place === 'bottom' ? '-low' : ''),
     zh: `${t.name}档`,
     en: t.en,
-    spec: squareSpec(t.k, fTotal, squareLead(fTotal, band), SQUARE.H, band),
+    spec:
+      place === 'bottom'
+        ? squareWrapLow(squareSeg(t.k), fTotal, `k=${t.k}`, band).spec
+        : squareSpec(t.k, fTotal, squareLead(fTotal, band), SQUARE.H, band),
     opts,
     smooth: [3, 1] as const,
   }));
